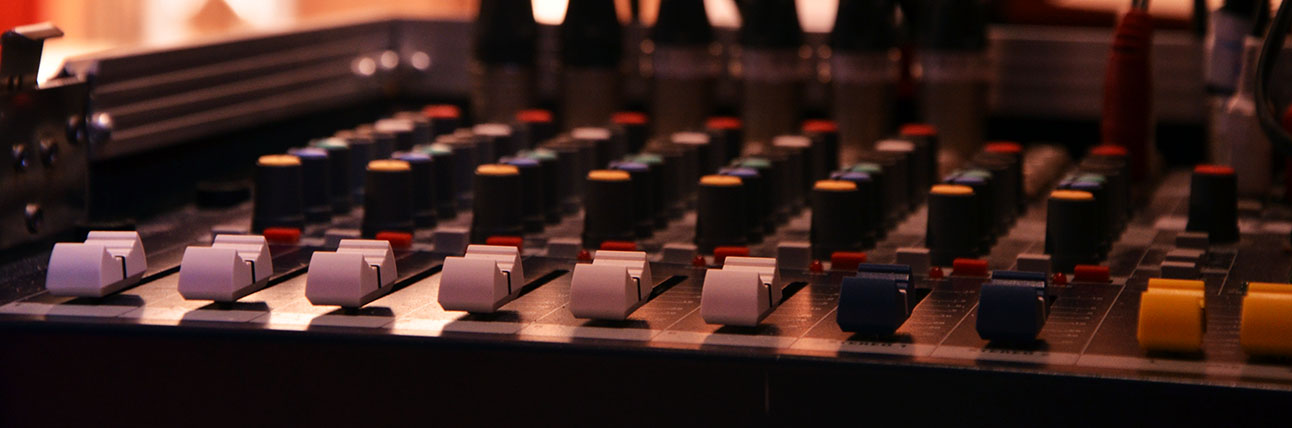
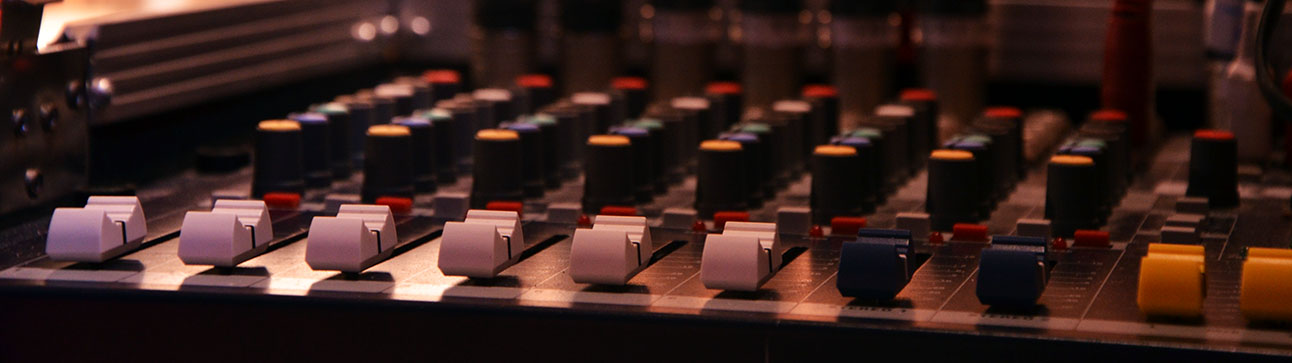
last update

diff --git a/public/stylesheets/style.css b/public/stylesheets/style.css
@@ -9,14 +9,19 @@ body {
 	height: 100%;
 	overflow-y: scroll;
 	background: #f5f5f5;
+	text-align: center;
 }
 
 .nav-wrapper {
 	position: absolute;
 	display: inline-block;
 	top: 0px;
-	left: calc(50% - 646px);
-	width: 1292px;
+	max-width: 1292px;
+	width: 100%;
+	left: 0;
+	right: 0;
+	margin-left: auto;
+	margin-right: auto;
 	height: 100px;
 	background: #111;
 	opacity: .3;
@@ -28,9 +33,13 @@ nav {
 	position: absolute;
 	display: inline-block;
 	top: 0px;
-	left: calc(50% - 646px);
-	width: 1292px;
+	max-width: 1292px;
+	width: 100%;
+	left: 0;
+	right: 0;
 	margin: 0 auto;
+	margin-left: auto;
+	margin-right: auto;
 	z-index: 101;
 	padding-top: 24px; 
 	padding-bottom: 24px;
@@ -87,15 +96,18 @@ nav {
 .page {
 	position: relative;
 	display: inline-block;
-	width: 1292px;
+	max-width: 1292px;
+	width: 100%;
 	margin: 0 auto;
-	left: calc(50% - 646px);
+	margin-right: auto;
+	margin-left: auto;
+	text-align: left;
 }
 
 .home {
 	background: url('../images/home.jpg');
 	background-repeat: no-repeat;
-	background-size: 100%;
+	background-size: 1292px;
 	height: 700px;
 	margin: 0px;
 }
@@ -118,9 +130,74 @@ nav {
 	color: #333;
 }
 
-.page h1 {
+.section-header {
+	padding: 30px 80px;
+	background: url('../images/buttons.jpg');
+	background-repeat: no-repeat;
+	background-size: 100%;
+	height: 363px;
+	color: #F5EBE1;
+}
+
+.page h1.normal {
 	font-family: "Helvetica Special";
 	font-size: 80px;
+}
+
+.session {
+	height: 200px;
+	width: 100%;
+	margin-bottom: 30px;
+}
+
+.session *{
+	font-family: "Helvetica Special";
+}
+
+.session p {
+	position: relative;
+	top: 50%;
+	margin: 0px;
+	padding: 0px;
+	margin-top: -15px;
+	width: 100%;
+	line-height: 30px;
+}
+
+.tile {
+	position: absolute;
+	top: 0;
+	left: 0;
+	bottom: 0;
+	right: 0;
+	margin-right: auto;
+	margin-left: auto;
+	width: 200px;
+	height: 200px;
+	background-position: center;
+	border-radius: 200px;
+}
+
+.column {
+	height: 200px;
+}
+
+#alexhaw {
+	background: url('../images/speakers/oct2013/alex_haw.jpg');
+	background-repeat: no-repeat;
+	background-size: 100%;
+	background-position: center;
+	height: 100%;
+	display: inline-block;
+	border-radius: 10000px;
+}
+
+.big-text {
+	font-family: "Helvetica Special";
+	font-size: 120px;
+	margin: 0px;
+	/*text-shadow: 6px 6px 3px #000;*/
+	color: #F5EBE1;
 }
 
 .title-top {
